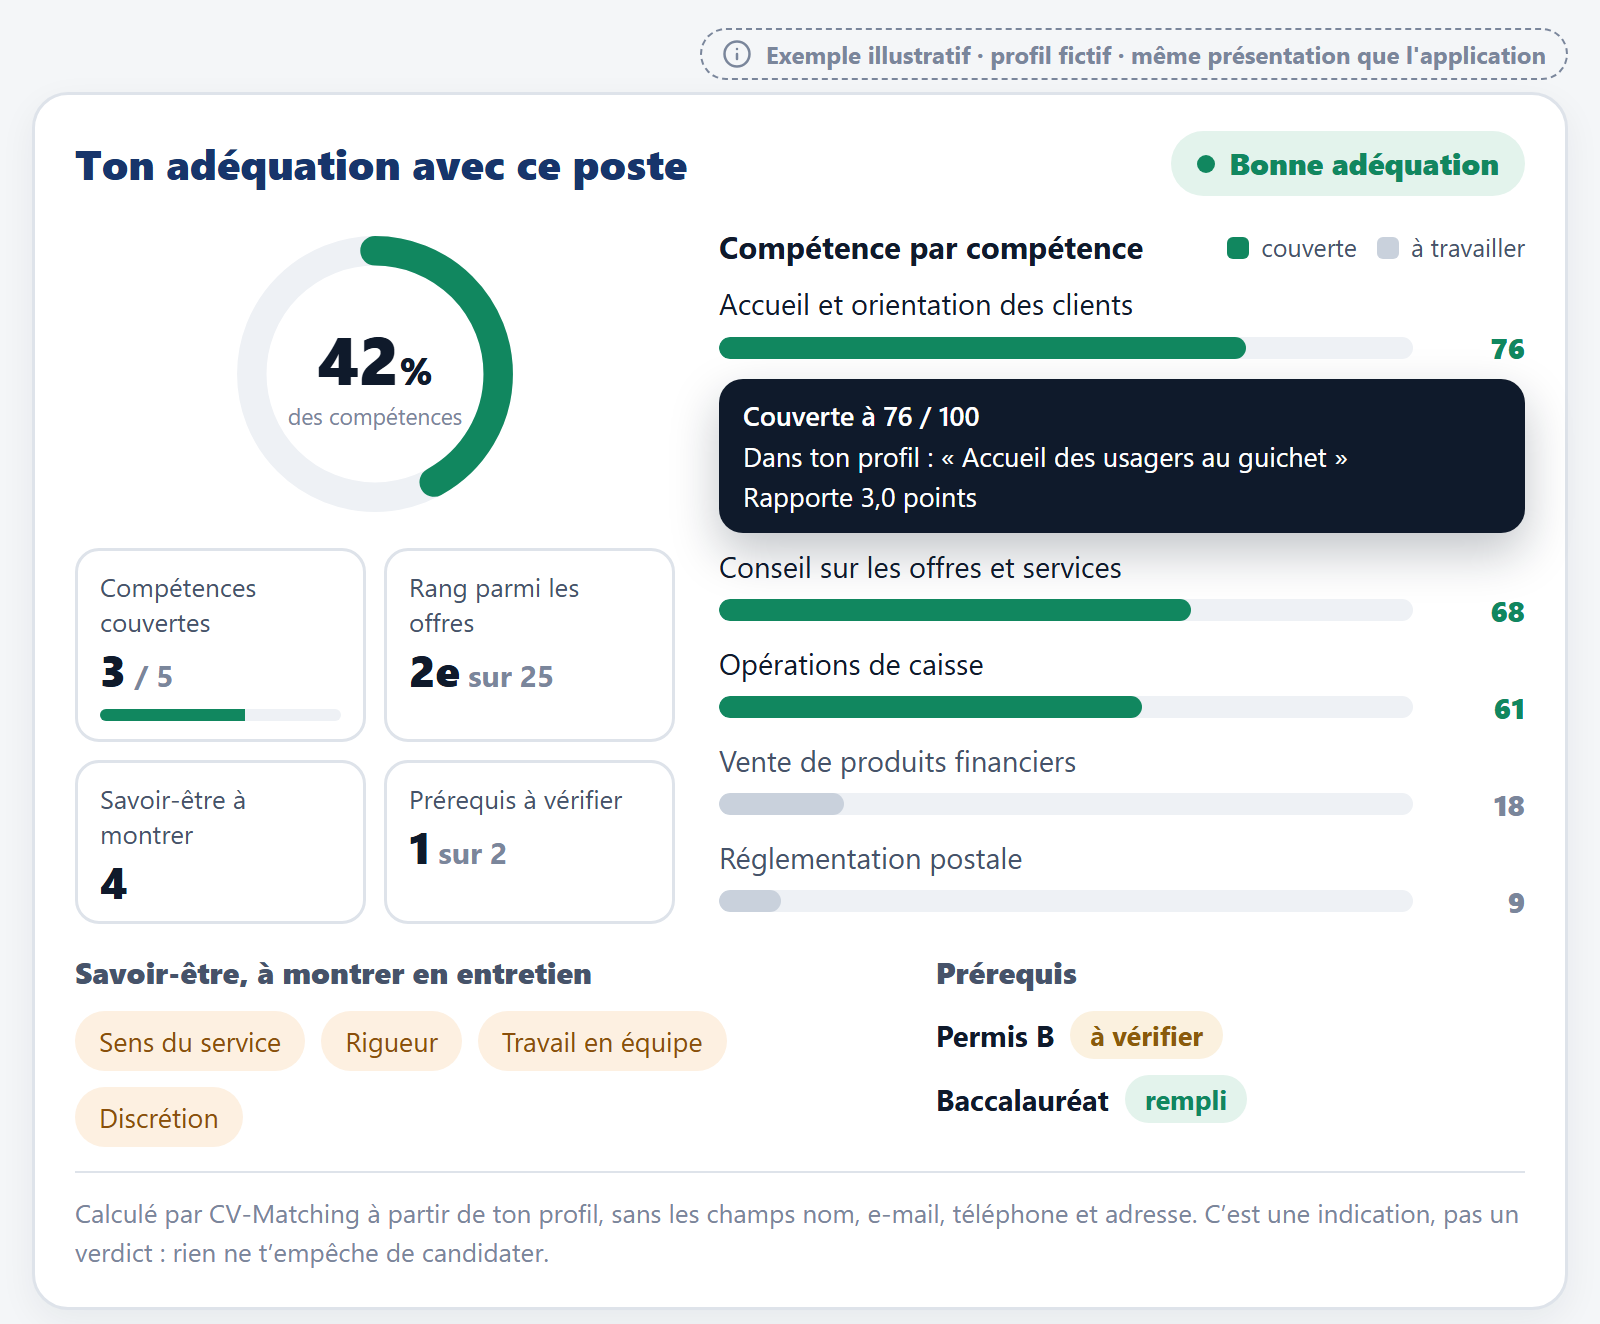
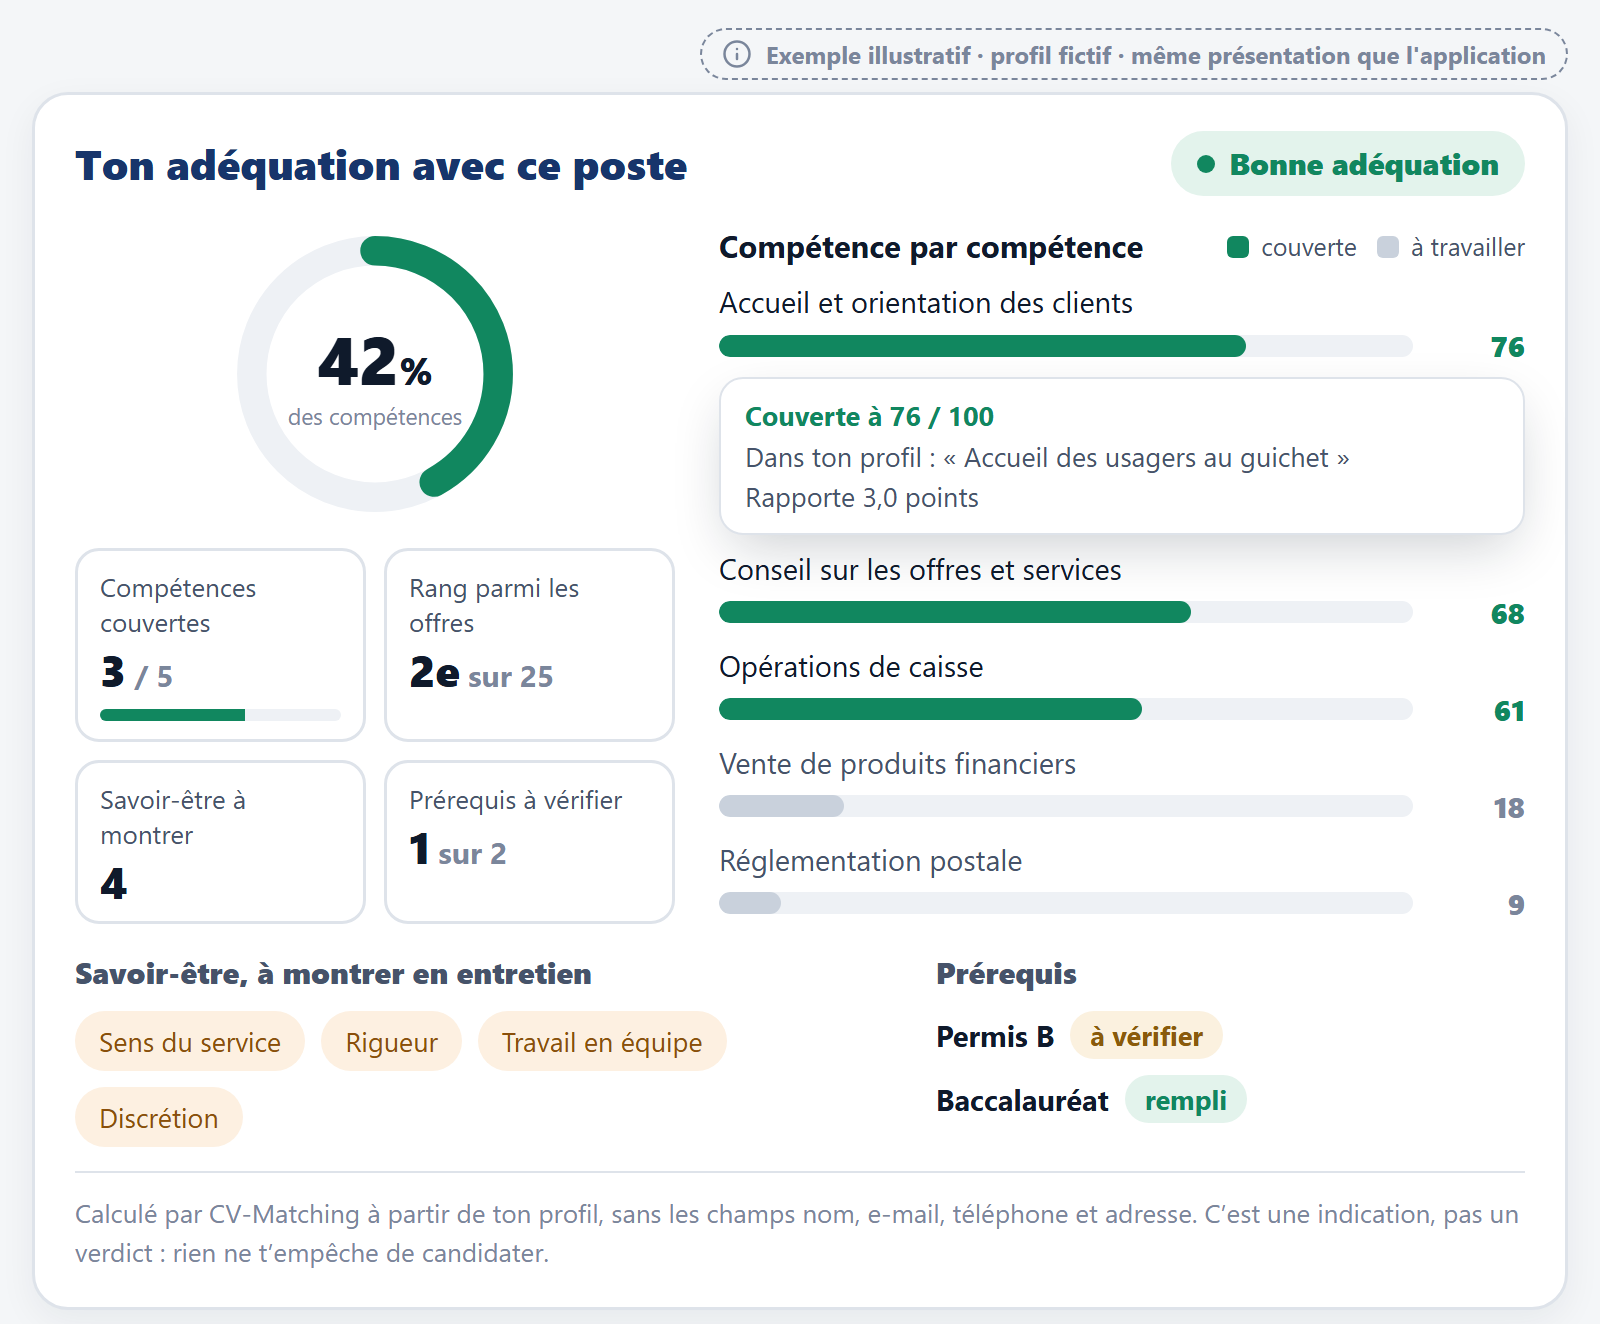
Info-bulle de l'adéquation en clair, aux couleurs du thème

diff --git a/beta/src/v2.css b/beta/src/v2.css
@@ -631,9 +631,12 @@
 .adq-b-n { font-size: var(--t-xs); color: var(--ink-2); text-align: right; font-variant-numeric: tabular-nums; }
 /* l'info-bulle, sous la barre (au-dessus elle serait coupée en haut du panneau) */
 .adq-bulle { position: absolute; z-index: 5; left: 0; right: 0; top: calc(100% + 2px); display: grid; gap: 2px;
-  padding: var(--s2) var(--s3); border-radius: var(--r-md); background: var(--ink); color: var(--surface);
-  font-size: var(--t-xs); line-height: 1.4; box-shadow: var(--shadow-ui); pointer-events: none; }
-.adq-bulle b { font-weight: 600; }
+  padding: var(--s2) var(--s3); border-radius: var(--r-md); background: var(--surface); color: var(--ink-2);
+  border: 1px solid var(--line); font-size: var(--t-xs); line-height: 1.4;
+  box-shadow: 0 10px 28px -6px rgba(15,26,43,.22); pointer-events: none; }
+/* info-bulle claire, du thème de la page : le titre reprend la couleur de la barre */
+.adq-bulle b { font-weight: 700; color: var(--ink); }
+.adq-barres li.ok .adq-bulle b { color: var(--yes); }
 /* « +26 » : déplie la liste complète, « Réduire » la referme */
 .adq-deplier { border: 1px dashed color-mix(in srgb, var(--brand) 45%, var(--line)); background: transparent;
   color: var(--brand); font: inherit; font-size: var(--t-xs); font-weight: 600; padding: 3px 10px;
